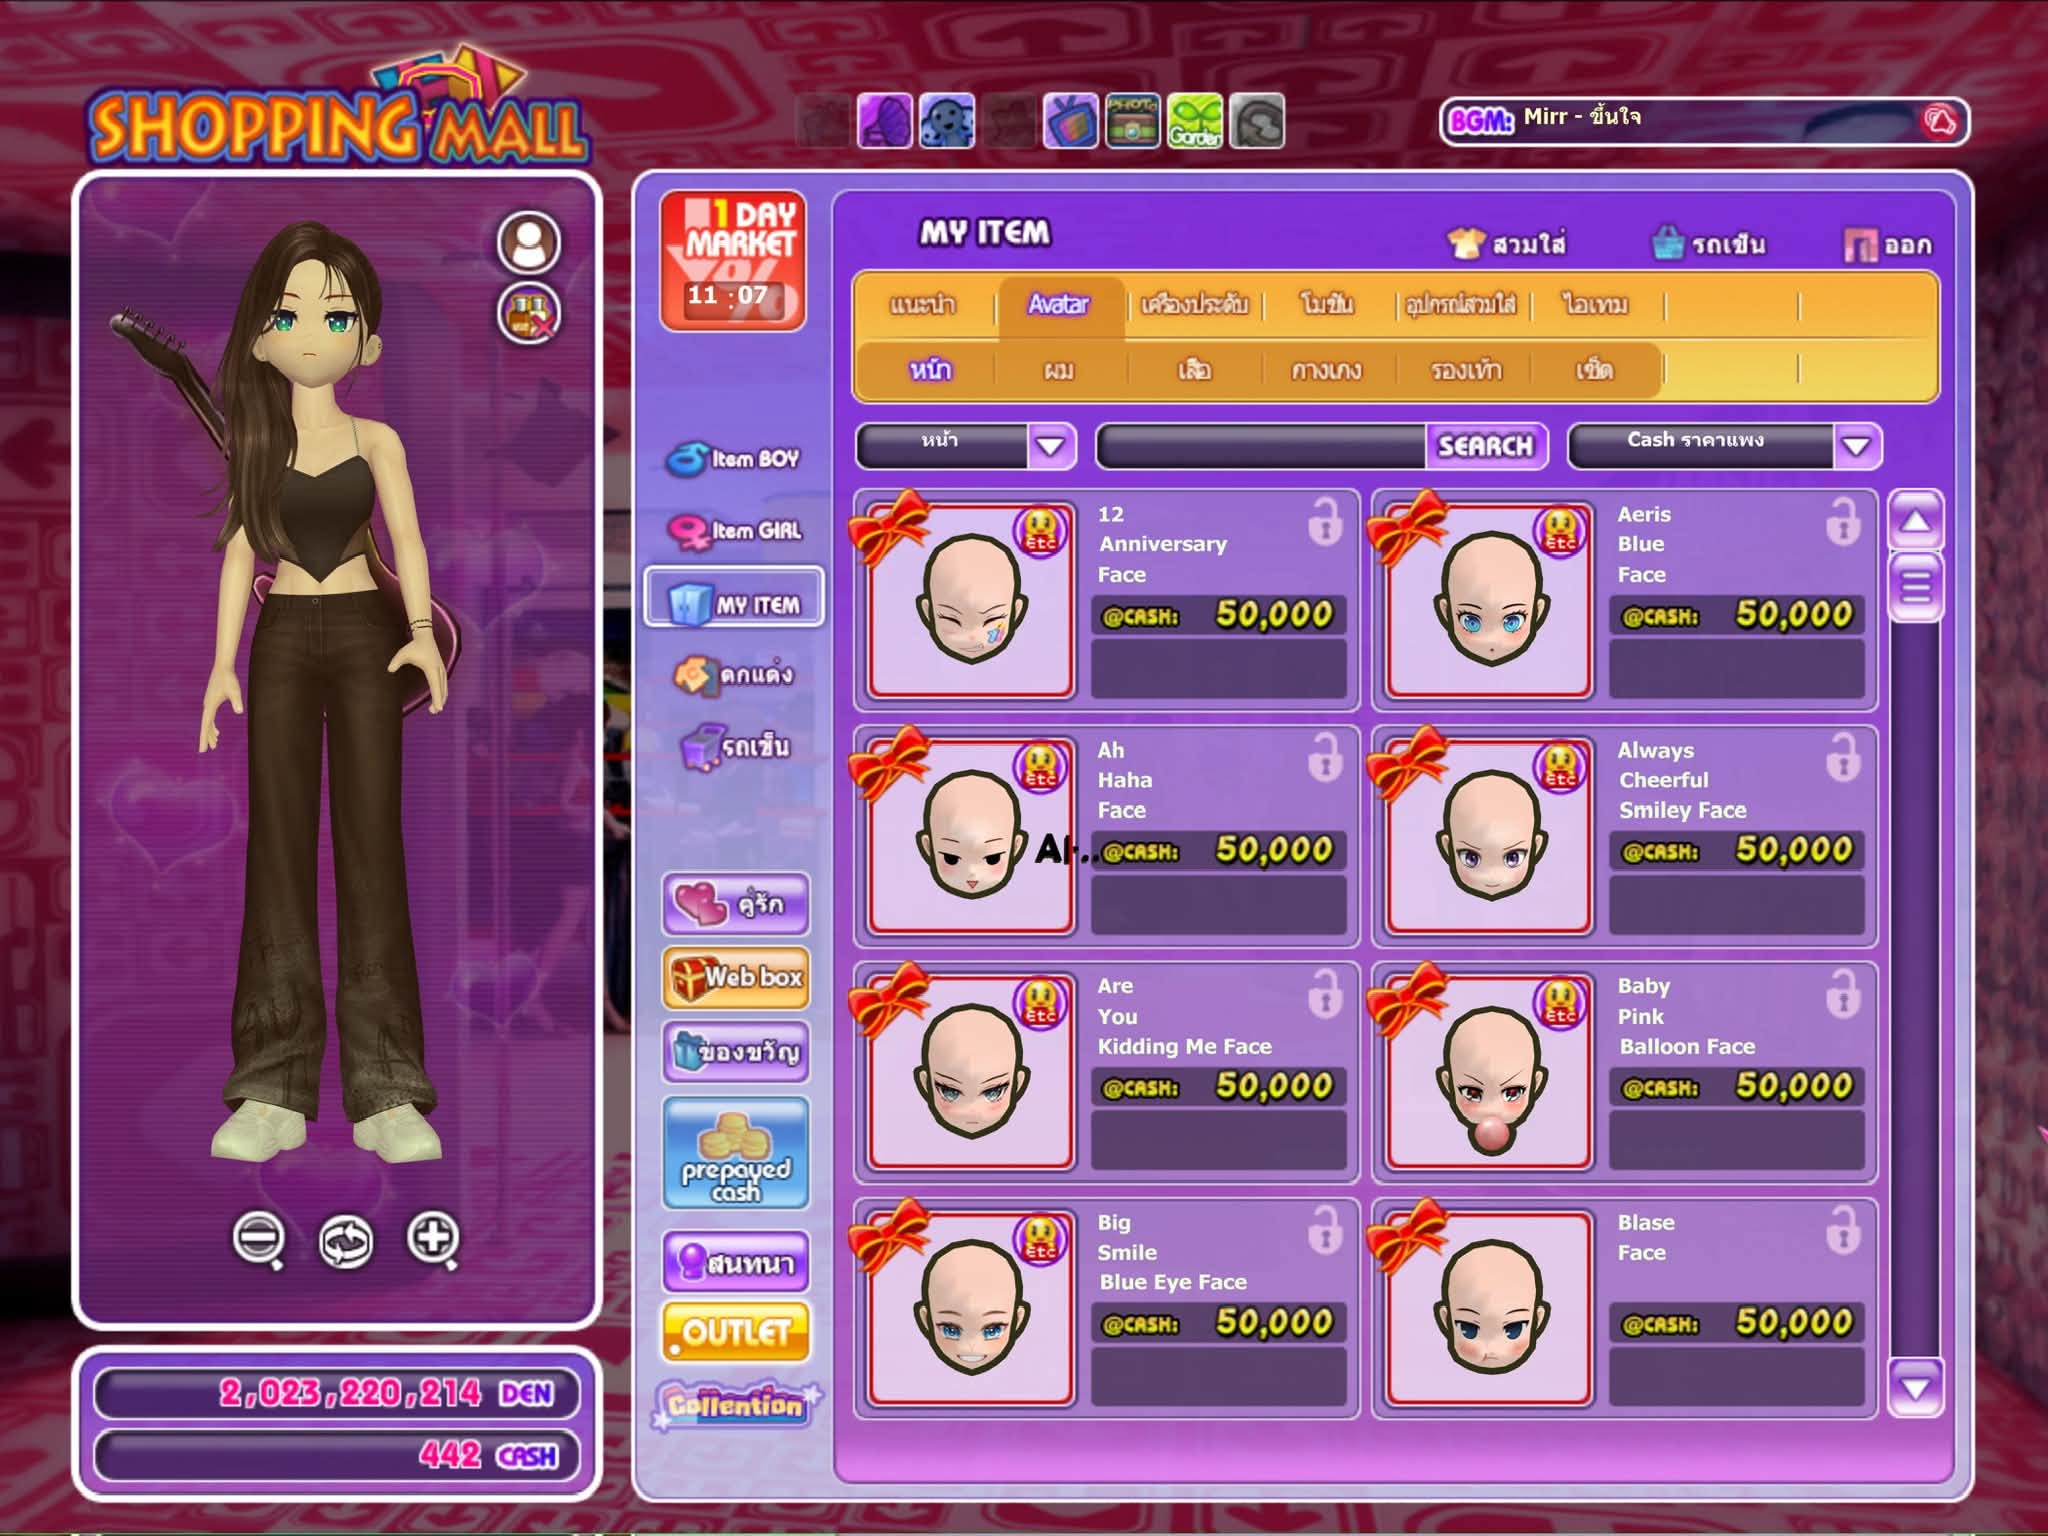
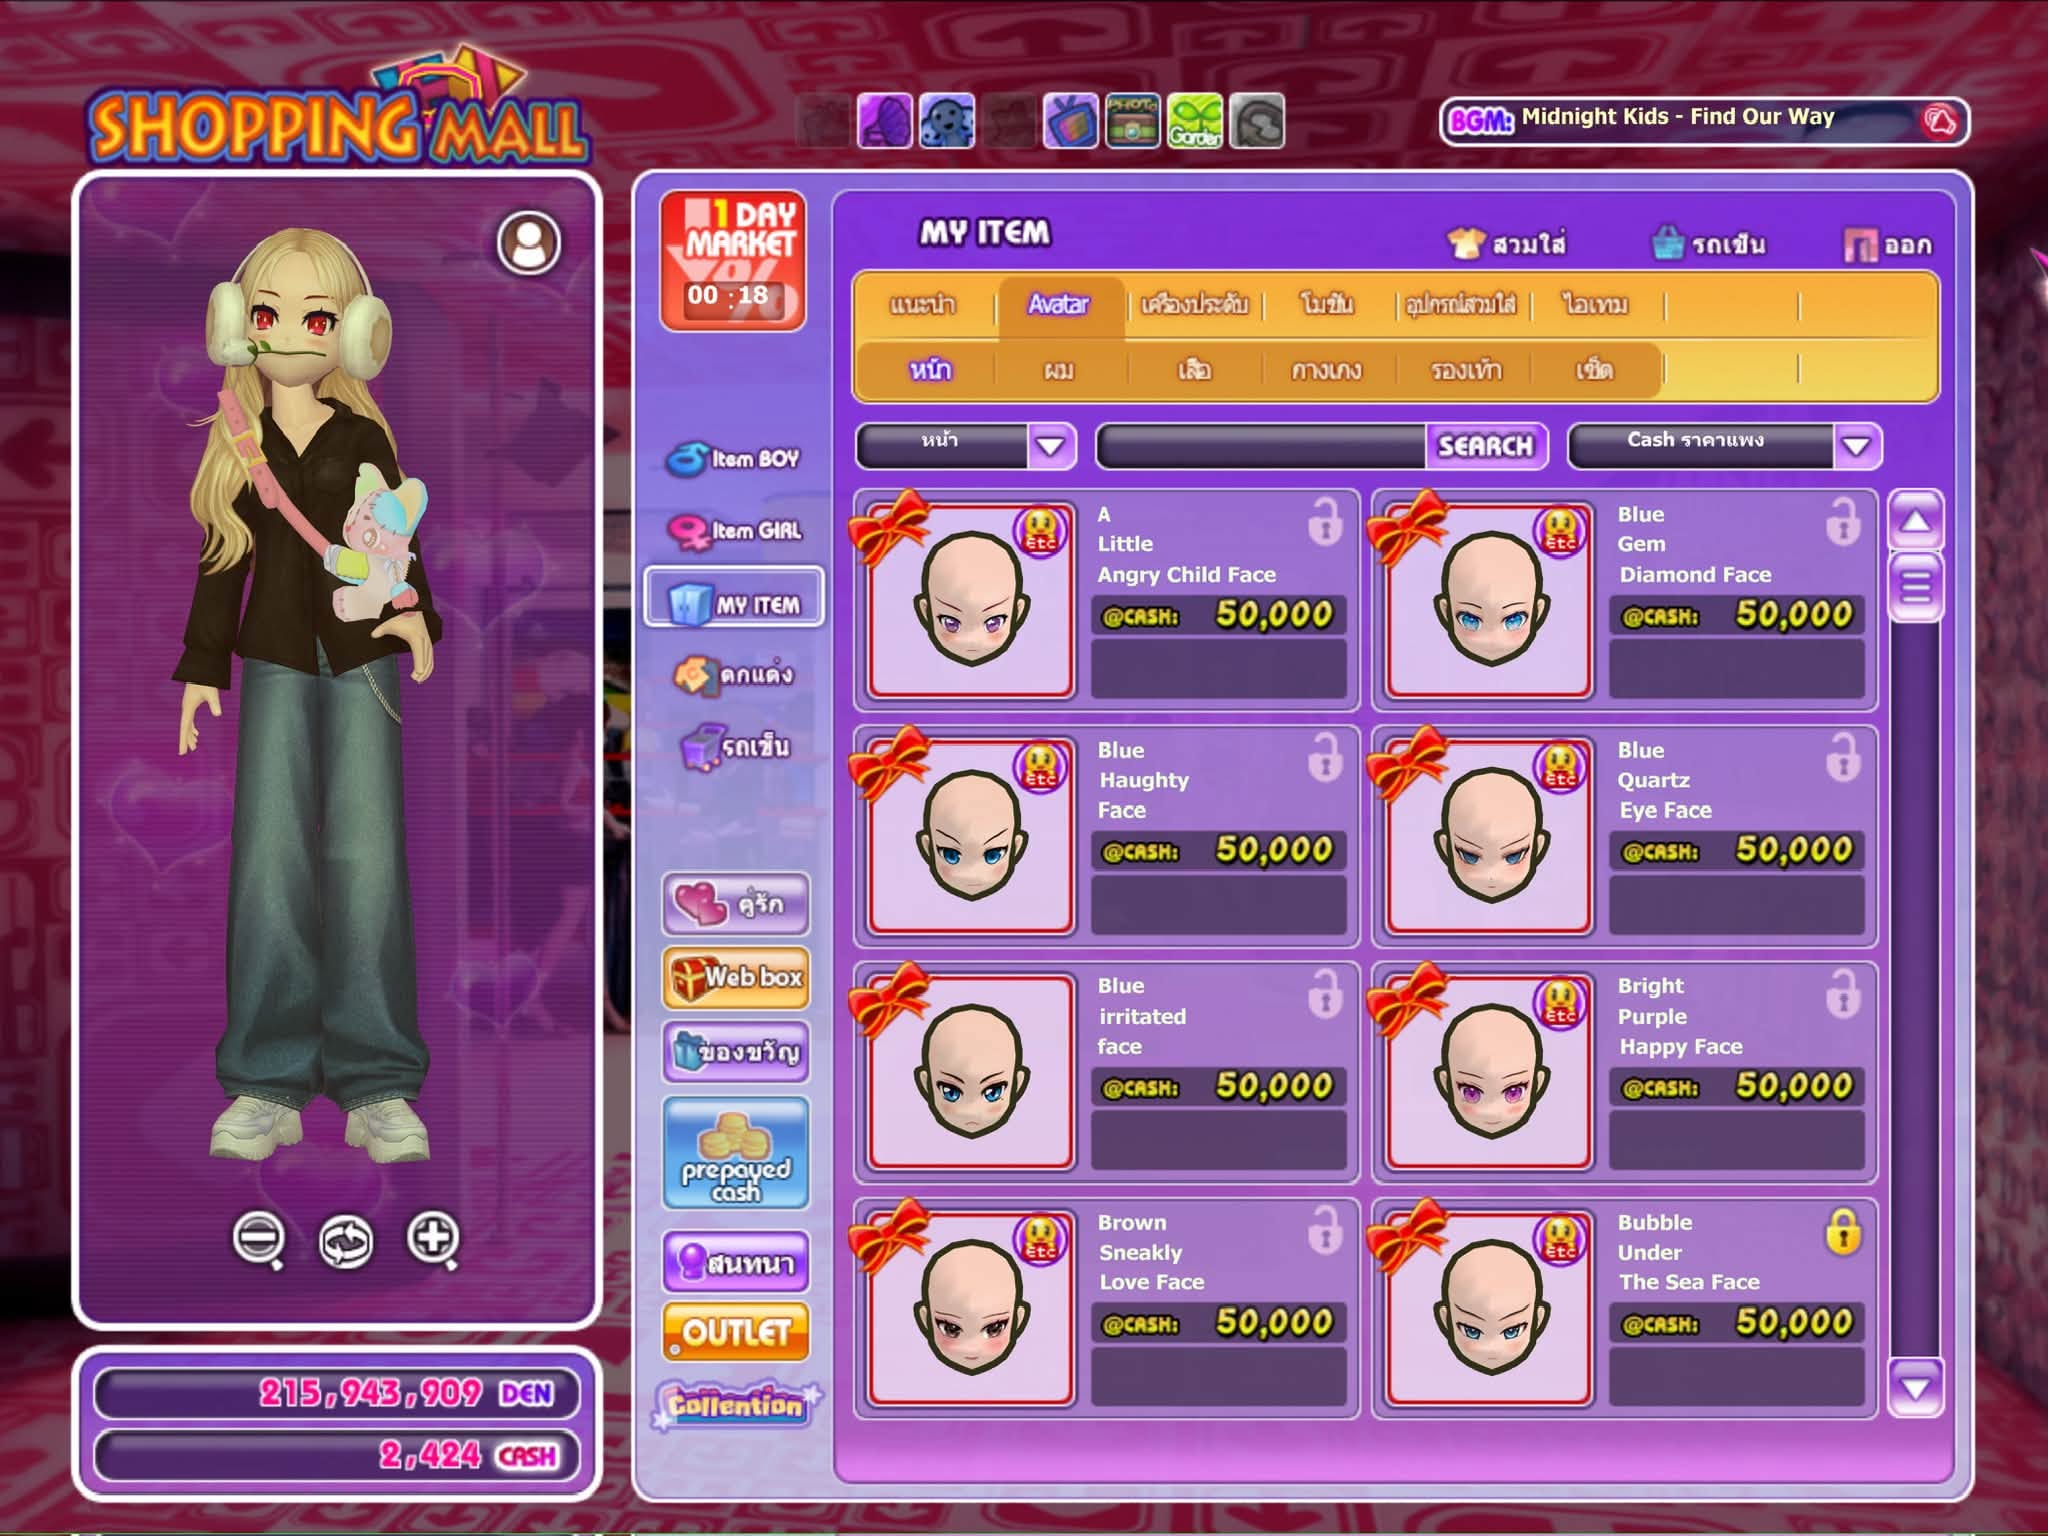
Add files via upload

diff --git a/index.html b/index.html
@@ -266,6 +266,7 @@
     </div>
 
 </a>
+
 <a href="https://www.facebook.com/share/p/1EgbB6mNTB/"
                     class="id-card"
                     target="_blank"
@@ -297,6 +298,47 @@
         <div class="tags">
             <span>#ตัวเล็กของสวย</span>
             <span>#เน้นสด</span>
+        </div>
+
+    </div>
+
+</a>
+
+<a href="https://www.facebook.com/share/p/1Dz3nGfhbX/"
+                    class="id-card"
+                    target="_blank"
+                    rel="noopener noreferrer">
+
+                     <div class="price-badge">
+                     ฿6,500
+                     </div>
+
+    <div class="card-image">
+        <img src="assets/images/female/female-g062.jpg" alt="G-062">
+    </div>
+
+    <div class="card-content">
+
+        <span class="badge-installment">
+            💳 เน้นสด
+        </span>
+
+        <h3>G-062</h3>
+
+        <ul class="product-info">
+            <li>LV.99</li>
+            <li>✅ ข้อมูลมั่ว</li>
+            <li>✅ เปลี่ยนอีเมลได้</li>
+            <li>✅ เปลี่ยนเบอร์ได้</li>
+        </ul>
+
+        <div class="tags">
+            <span>#หลาบขาวตาแดง</span>
+            <span>#หน้ามึนดำ</span>
+            <span>#ผมทองหูฟังขาว</span>
+            <span>#เชิ้ตดำ</span>
+            <span>#กางเกงโซ่แพง</span>
+            <span>#สดลดได้</span>
         </div>
 
     </div>
